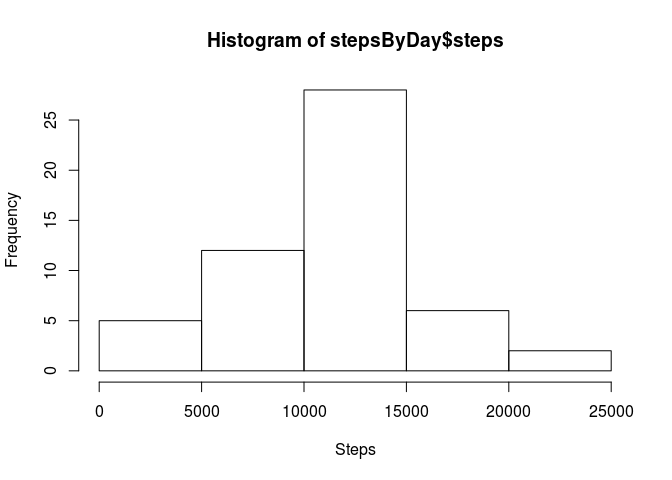
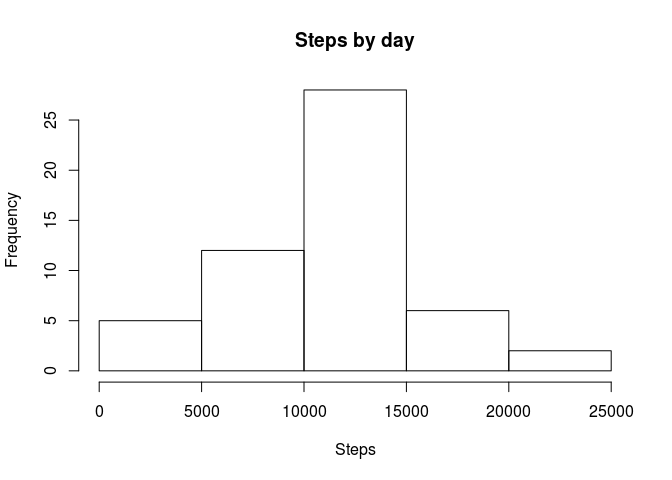
Title improved

Changed region(s): [[0.3125, 0.0625, 0.75, 0.125]]

diff --git a/PA1_template.html b/PA1_template.html
@@ -121,8 +121,8 @@ data &lt;- read.csv(con)</code></pre>
 <h2>What is mean total number of steps taken per day?</h2>
 <pre class="r"><code>stepsByDay &lt;- aggregate(steps ~ date, data, sum)
 
-hist(stepsByDay$steps, xlab=&quot;Steps&quot;)</code></pre>
[1 lines of base64/hex data omitted]
+hist(stepsByDay$steps, xlab=&quot;Steps&quot;, main=&quot;Steps by day&quot;)</code></pre>
[1 lines of base64/hex data omitted]
 <pre class="r"><code>sprintf(&quot;Mean amount of steps: %.2f&quot;, mean(stepsByDay$steps))</code></pre>
 <pre><code>## [1] &quot;Mean amount of steps: 10766.19&quot;</code></pre>
 <pre class="r"><code>sprintf(&quot;Median amount of steps: %d&quot;, median(stepsByDay$steps))</code></pre>

diff --git a/PA1_template.md b/PA1_template.md
@@ -15,7 +15,7 @@ data <- read.csv(con)
 ```r
 stepsByDay <- aggregate(steps ~ date, data, sum)
 
-hist(stepsByDay$steps, xlab="Steps")
+hist(stepsByDay$steps, xlab="Steps", main="Steps by day")
 ```
 
 ![](PA1_template_files/figure-html/unnamed-chunk-2-1.png)
